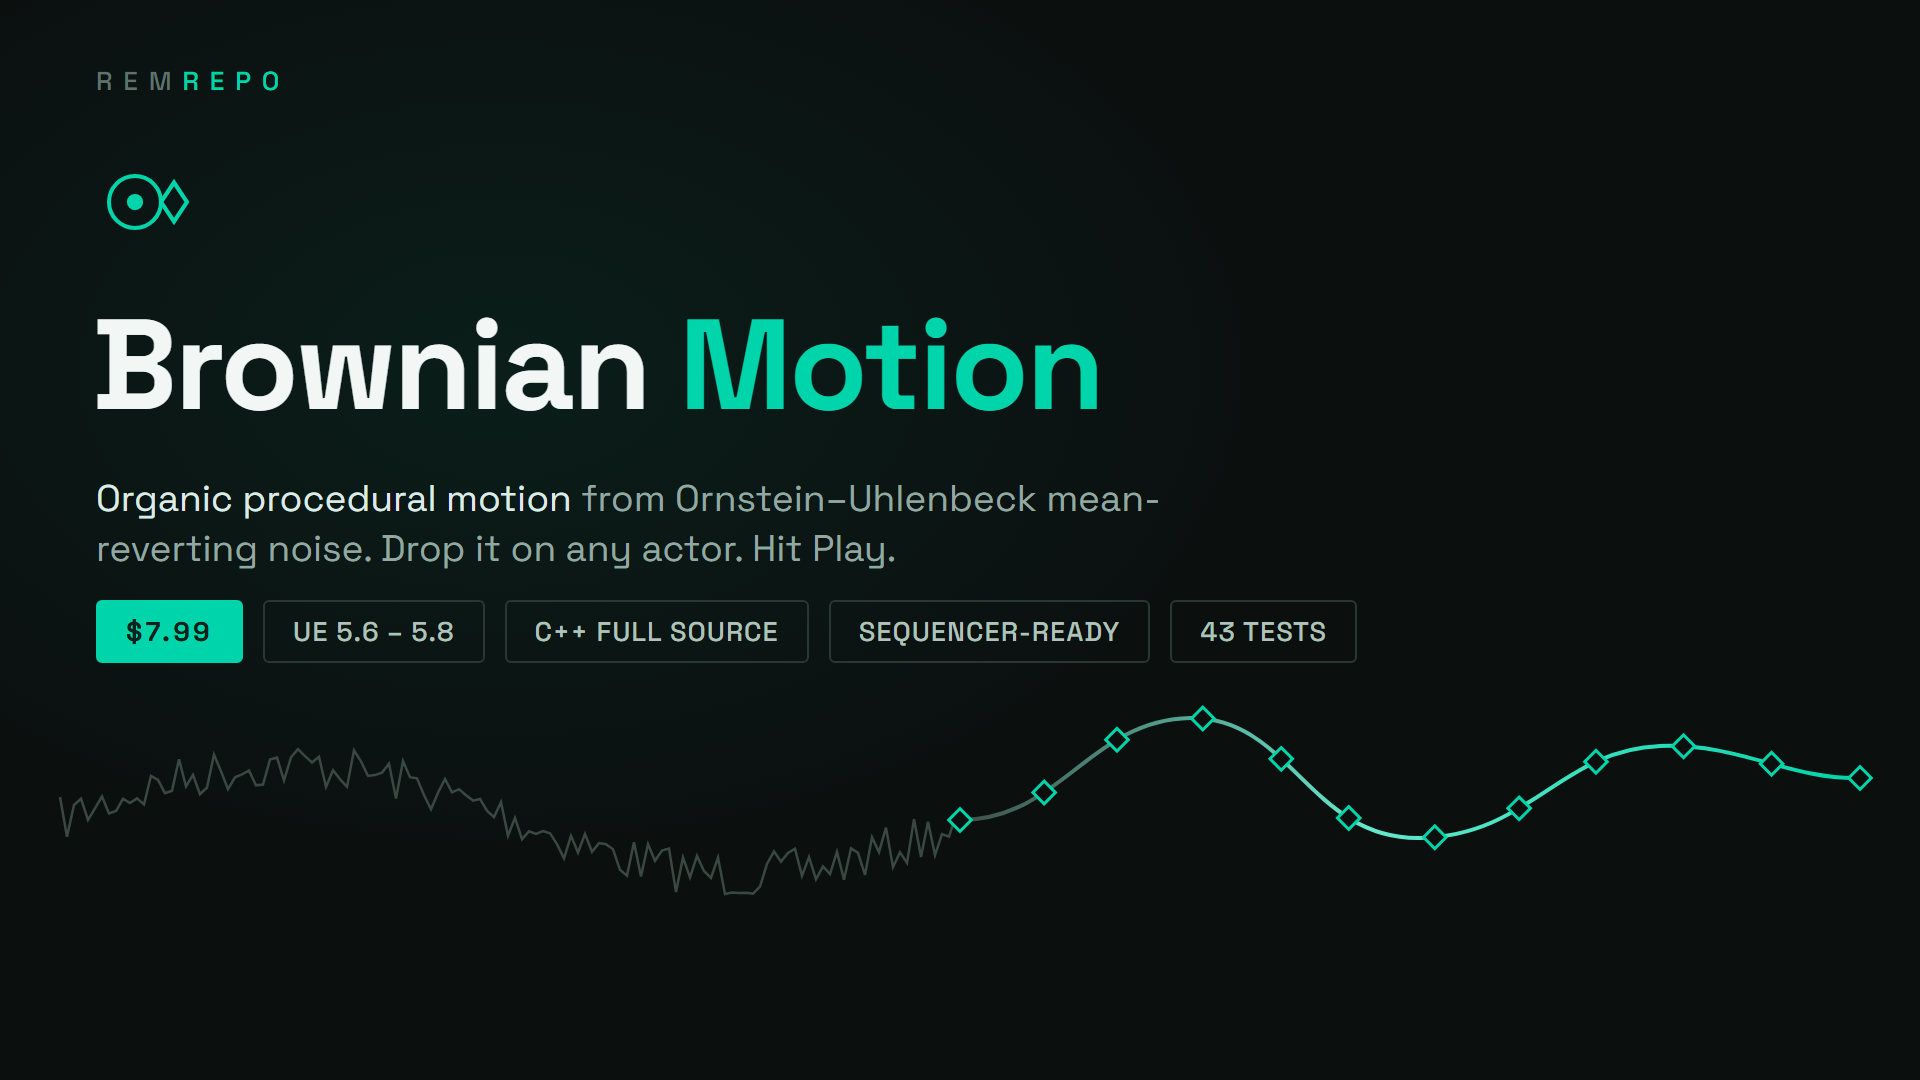
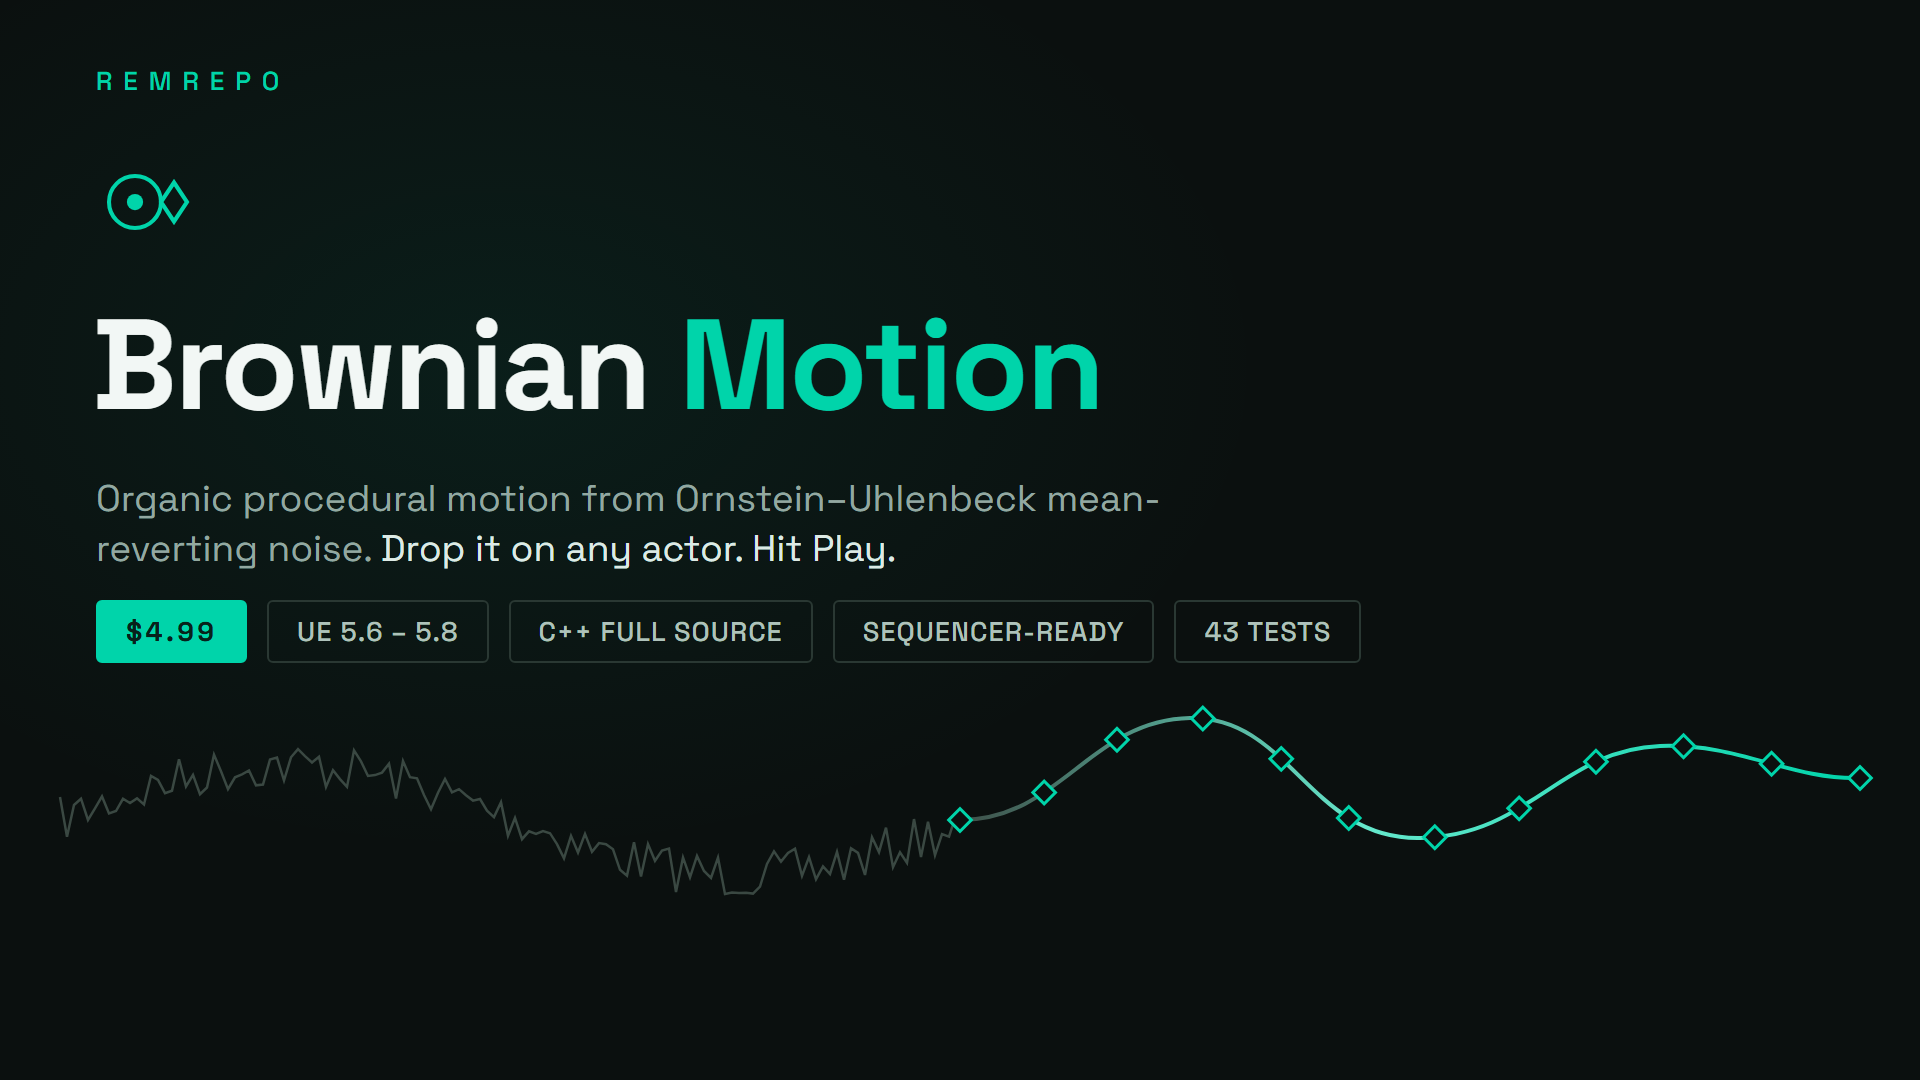
docs: full documentation (setup, parameter reference, Blueprint API, Sequencer, recipes, troubleshooting) for Fab review

Changed region(s): [[0.0625, 0.55, 0.7188, 0.6111], [0.0625, 0.4583, 0.4688, 0.5194], [0.0625, 0.0611, 0.0938, 0.0917]]

diff --git a/DOCUMENTATION.md b/DOCUMENTATION.md
@@ -1,0 +1,183 @@
+# Brownian Motion — Documentation
+
+**Ornstein–Uhlenbeck mean-reverting noise component for Unreal Engine 5.6 / 5.7 / 5.8 (Win64).**
+
+This guide covers installation, setup, every parameter, the Blueprint API, Sequencer integration, and troubleshooting. No third-party software is required — the plugin is self-contained (two modules: `BrownianMotion` runtime, `BrownianMotionEditor` editor-only).
+
+---
+
+## 1. Installation
+
+1. Purchase/get **Brownian Motion** on [Fab](https://www.fab.com/sellers/REMrepo) and install it to your engine via the **Epic Games Launcher** (Library → Fab Library → Install to Engine). Supported engine versions: **UE 5.6, 5.7, 5.8**.
+2. Open your project and enable the plugin: **Edit → Plugins → search "Brownian Motion" → Enable**. Restart the editor when prompted.
+3. Add a **Brownian Motion** component to any actor (Add Component → search "Brownian"). Motion starts with sensible defaults the moment you press **Play**.
+
+> Ships with full C++ source. The runtime module works in packaged/shipping builds; only the custom Sequencer track editor is editor-only.
+
+---
+
+## 2. Two ways to use it
+
+**Parent mode (default, recommended).** Add the component to an actor and parent your mesh components *underneath* it in the component tree. The component moves itself; children inherit the motion. Nothing else to configure.
+
+**Affect Parent mode.** Drop the component onto any existing actor and enable **Affect Parent**. The component moves the actor's root — no hierarchy changes needed. If the parent is Static, the component automatically promotes its mobility to Movable (and reverts when Affect Parent is disabled).
+
+**Editor preview.** Enable **Preview in Editor** to see the motion in the viewport without entering PIE.
+
+---
+
+## 3. Parameter reference
+
+All parameters are `BlueprintReadWrite`. Every animatable parameter carries the **Interp** flag, so it can be keyframed in Sequencer (19 keyframable properties in total).
+
+### General
+
+| Property | Type | Default | Description |
+|---|---|---|---|
+| Active | bool | `true` | Master on/off. Smoothly blends motion in and out, returning to the original position when off. |
+| Blend Duration | float | `0.5` s | How long the blend in/out takes when toggling Active (min 0.01). |
+| Affect Parent | bool | `false` | Move the parent component/actor root instead of self. |
+| Preview in Editor | bool | `false` | Preview motion in the viewport without Play. |
+
+### Motion
+
+| Property | Type | Default | Range | Description |
+|---|---|---|---|---|
+| Speed | float | `1.0` | 0 – 10 | Time-scale multiplier. `0` = frozen. |
+| Amplitude | float | `1.0` | 0 – 2 | Output multiplier. `0` = no motion, `1` = full range. Ideal for Sequencer fade-in/out. |
+| Center Pull | float | `2.0` | 0 – 20 | Mean-reversion strength — higher pulls back to center faster. |
+| Smoothing | float | `0.5` | 0 – 1 | Critically-damped spring smoothing. `1.0` = very smooth, `0.0` = raw unfiltered noise. |
+| Detail | float | `0.0` | 0 – 1 | Fractal detail amount (Voss–McCartney 1/f pink noise). `0` = off. |
+| Detail Layers | int | `3` | 1 – 5 | Number of pink-noise layers (visible when Detail > 0). More = richer spectrum. |
+
+### Range
+
+| Property | Type | Default | Description |
+|---|---|---|---|
+| Per-Direction Range | bool | `false` | When true, each axis (X/Y/Z) gets its own min/max range. |
+| Range Min / Range Max | float | `−100` / `100` cm | Displacement envelope, all directions (when Per-Direction Range is off). |
+| Range Min/Max X, Y, Z | float | `−100` / `100` cm | Per-axis envelopes (when Per-Direction Range is on). |
+| Affect X / Y / Z | bool | `true` | Enable motion per axis. |
+
+Motion is sealed inside the range envelope by the mean-reversion math itself — no clamping, no snapping.
+
+### Rotation
+
+| Property | Type | Default | Description |
+|---|---|---|---|
+| Enable Rotation | bool | `false` | Adds an independent OU noise process on rotation. |
+| Rotation Speed | float | `1.0` | Rotation time-scale, independent from position Speed. |
+| Rotation Amplitude | Rotator | `(5, 5, 0)` ° | Per-axis rotation amplitude in degrees (pitch, yaw, roll). Set an axis to `0` to disable it. |
+
+### Collision avoidance
+
+| Property | Type | Default | Description |
+|---|---|---|---|
+| Enable Collision | bool | `false` | Sphere-sweep repulsion: motion bends away from geometry before contact. |
+| Auto Collision Size | bool | `true` | Derive both radii from the owning actor's mesh bounds. |
+| Collision Radius | float | `10` cm | Hard shell — the object never gets closer than this to a surface (manual mode only). |
+| Detection Radius | float | `50` cm | How far out surfaces are sensed and steering begins (manual mode only). |
+| Draw Debug | bool | `false` | Draw collision/detection spheres in the editor viewport. |
+
+The system sweeps in six directions and bends the trajectory (repulsion, not a binary block). An overlap-escape system recovers objects that start inside geometry. Penetrations are counted and reported — see Diagnostics.
+
+### Advanced
+
+| Property | Type | Default | Description |
+|---|---|---|---|
+| Anchor | Vector | `(0,0,0)` | Bias per axis in normalized space: `0` = center of range, `−1` = toward min, `1` = toward max. |
+| Seed | int | `0` | `0` = different motion every play. Any non-zero integer = fully deterministic, identical every run. |
+| Independent Axes | bool | `true` | Each axis gets independent noise; when false all axes share one sample. |
+
+### Debug
+
+| Property | Type | Default | Description |
+|---|---|---|---|
+| Debug Log | bool | `false` | Detailed per-tick logging to the Output Log. |
+
+---
+
+## 4. Blueprint API
+
+All functions are `BlueprintCallable` in category **Brownian Motion**.
+
+| Function | Description |
+|---|---|
+| `Reset()` | Re-randomize the OU state and zero diagnostics (respects Seed). |
+| `SetOrigin()` | Capture the current location as the motion origin. |
+| `ActivateMotion()` | Smoothly blend motion in. |
+| `DeactivateMotion()` | Smoothly blend out and return to origin. |
+| `GetCurrentOffset()` | Current world-space offset from origin. |
+| `GetBlendWeight()` | `0` = fully off, `1` = fully on. |
+
+### Diagnostics (category Brownian Motion|Debug)
+
+| Function / member | Description |
+|---|---|
+| `GetOUState()` | Raw OU process state in normalized `[−1,1]` space. |
+| `GetSmoothedState()` | Spring-smoothed state in normalized space. |
+| `GetInitialLocation()` | Base location before any Brownian offset. |
+| `GetTargetWorldLocation()` | Current world position of the motion target. |
+| `GetRawOffset()` | Mapped offset before collision clamp. |
+| `GetResolvedCollisionRadius()` / `GetResolvedDetectionRadius()` | Resolved radii (auto or manual). |
+| `IsCurrentlyPenetrating()` | True if the actor is inside collision geometry right now. |
+| `PenetrationFailureCount` | Penetrations detected since last `Reset()` (BlueprintReadOnly). |
+| `OnPenetrationDetected` | Assignable event — fires with world location and normal when penetration is detected despite avoidance. |
+
+---
+
+## 5. Sequencer integration
+
+**Keyframing component parameters.** With the actor selected, every animatable property (Speed, Amplitude, CenterPull, Smoothing, Detail, ranges, per-axis ranges, Anchor, axis enables, rotation parameters) appears as a keyframable track in Sequencer. Classic use: keyframe **Amplitude** to fade drift in and out during cuts.
+
+**Standalone Brownian Motion track.** Add a *Brownian Motion* track directly to any actor from the Sequencer timeline (**+ Track → Brownian Motion**) — no component required. It exposes **Speed, Amplitude, Range Min, Range Max** channels and evaluates deterministic Perlin noise, so scrubbing the playhead is frame-exact and reproducible.
+
+---
+
+## 6. Recipes
+
+**Slow, languid drift (floating debris, buoys, lanterns)**
+Smoothing → `0.9–1.0`, Speed → `0.3–0.5`, Center Pull → `3–5`.
+
+**Handheld camera**
+Attach to a camera actor, Affect Parent on. Speed `0.2–0.5`, Smoothing `0.7+`, Range `10–30` cm. Add Enable Rotation with a small Rotation Amplitude (`0.5–1.5°`) for micro-rotation. Keyframe Amplitude to fade between cuts.
+
+**Rich organic complexity**
+Detail → `0.5–1.0` with `2–5` Detail Layers. Large slow sweeps and small fast details happen simultaneously.
+
+**Nervous, jittery motion**
+Smoothing → `0`, Speed → `2.5+`, Center Pull → `4+`.
+
+**Identical motion every run**
+Seed → any non-zero integer.
+
+---
+
+## 7. Performance notes
+
+- The OU simulation is pure math with **no per-tick allocations**; a single component is negligible.
+- Collision avoidance uses sphere traces and is the most expensive feature when enabled — mitigated by bounds caching (radii recomputed only when the actor moves) and is benchmarked in the included automation tests.
+- **Ray tracing:** a dead-zone filter suppresses sub-threshold position updates (0.01 cm) so many Brownian actors don't trigger TLAS rebuild storms with hardware RT enabled.
+- The plugin ships with **43 headless automation tests** (axis isolation, range coverage, blend timing, determinism, collision edge cases, smoothness, performance benchmarks). Run them via the Session Frontend → Automation tab, filter "BrownianMotion".
+
+---
+
+## 8. Troubleshooting
+
+**Nothing moves.** Check Active is on and Speed/Amplitude are non-zero. In Affect Parent mode on a Static actor, mobility is promoted automatically — if you toggled it manually, ensure the root is Movable.
+
+**Motion looks identical on two actors.** They share the same non-zero Seed — set Seed to `0` or use different seeds per actor.
+
+**Object starts inside geometry.** The overlap-escape system steers it out automatically; watch `PenetrationFailureCount` / `OnPenetrationDetected` if you need to react.
+
+**Too jittery / too smooth.** Raise Smoothing toward `1.0` (and/or lower Speed). Lower Smoothing toward `0` for raw noise.
+
+**Range looks wrong after moving the actor in-editor.** The origin is captured on BeginPlay (or `SetOrigin()`). Call `SetOrigin()` after repositioning at runtime.
+
+---
+
+## 9. Support
+
+- Bug reports & feature requests: [GitHub Issues](https://github.com/REMvisual/ue-BrownianMotion/issues)
+- Epic Developer Community forum thread: linked from the Fab listing's Comments section.
+- Free TouchDesigner version of the same math: [td-BrownianMotion](https://github.com/REMvisual/td-BrownianMotion)

diff --git a/README.md b/README.md
@@ -42,6 +42,10 @@ This repository is the public **issue tracker** and product page for the plugin.
 2. Launch the editor and enable **Brownian Motion** under Edit → Plugins
 3. Add a **Brownian Motion** component to any actor — motion starts with sensible defaults on Play
 
+## Documentation
+
+**[📖 Full documentation → DOCUMENTATION.md](DOCUMENTATION.md)** — setup, both usage modes, complete parameter reference (every default and range), Blueprint API, Sequencer integration, recipes (drift, handheld camera, jitter), performance notes, and troubleshooting.
+
 ## Use cases
 
 Floating debris and particles · camera drift and handheld shake · ambient object motion (lanterns, buoys, signs) · procedural idle animation · atmospheric fog/light drift · cinematic camera wander.